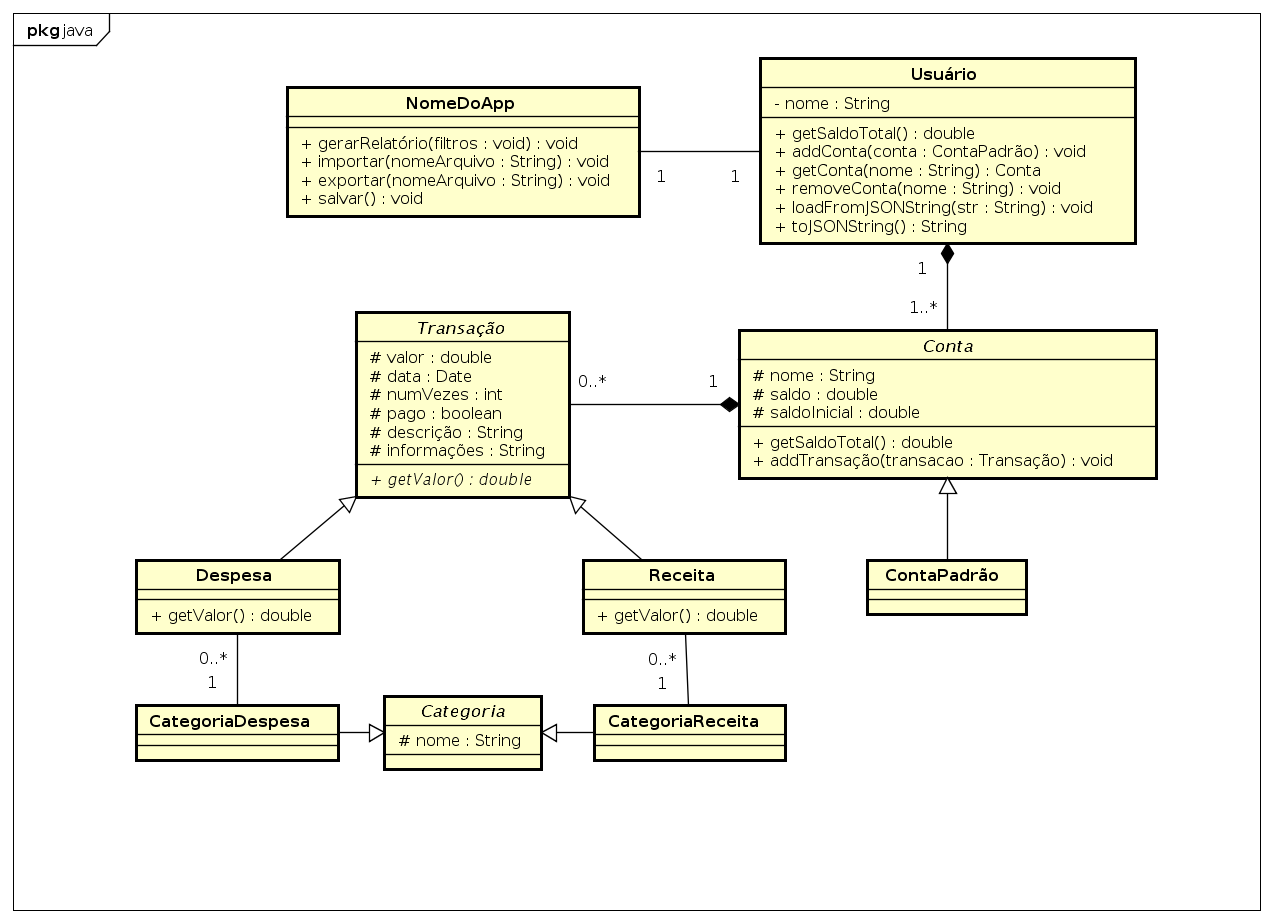
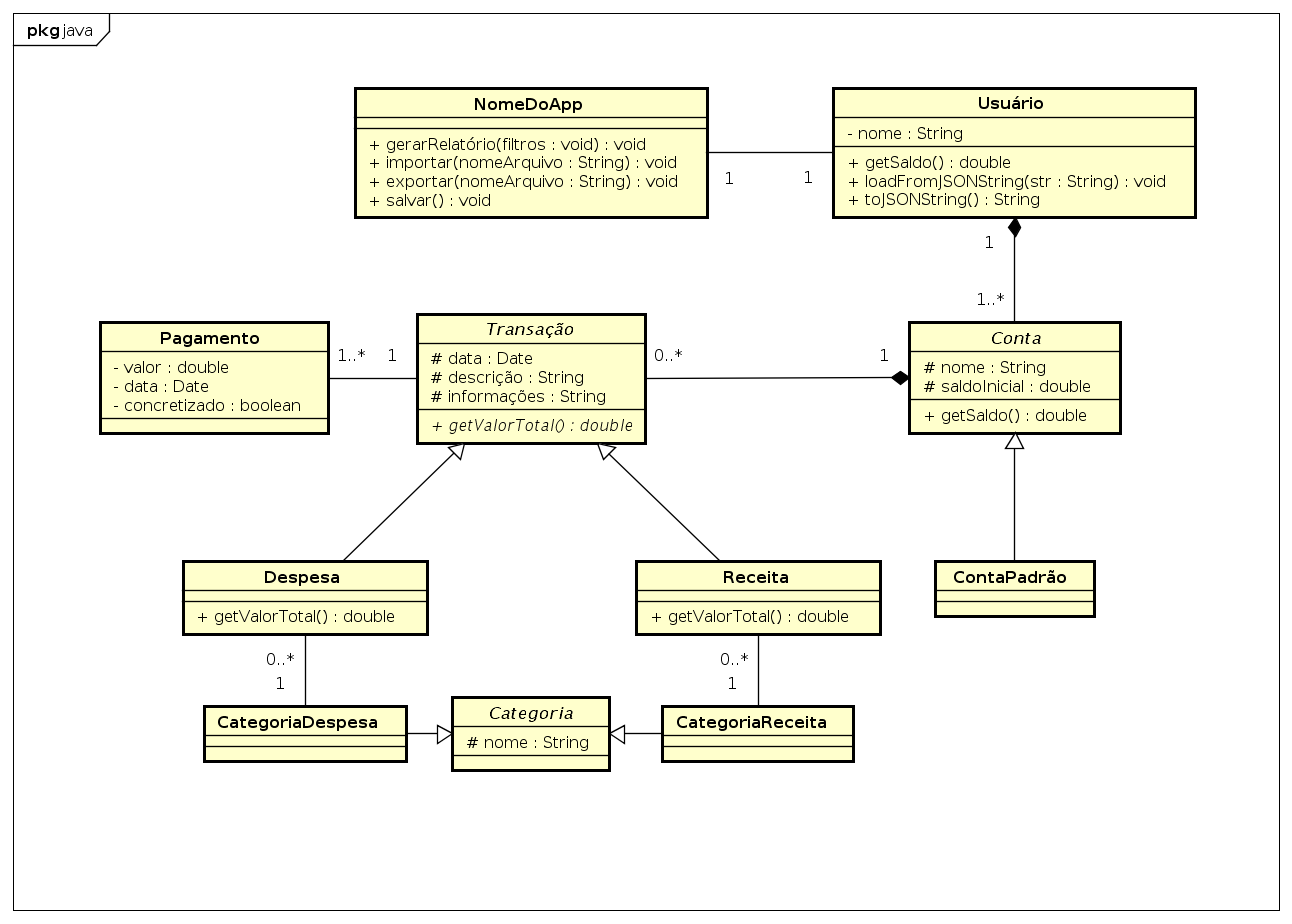
correções

diff --git a/desktop/src/financesapp/MainController.java b/desktop/src/financesapp/MainController.java
@@ -53,6 +53,9 @@ public class MainController implements Initializable {
     @FXML
     private ComboBox account;
     
+    @FXML
+    private Label balance;
+    
     private final LocalDate today = LocalDate.now();
     
     private final static ObservableList<String> accounts = FXCollections.observableArrayList();
@@ -88,7 +91,7 @@ public class MainController implements Initializable {
         
         date.setValue(today);
         
-        final NumberFormat currencyInstance = NumberFormat.getCurrencyInstance();
+        NumberFormat currencyInstance = NumberFormat.getCurrencyInstance();
         TextFormatter<Number> formatter = new TextFormatter<>(new FormatStringConverter<>(currencyInstance));
         formatter.valueProperty().bindBidirectional(new SimpleDoubleProperty(0));
         value.setTextFormatter(formatter);
@@ -114,7 +117,7 @@ public class MainController implements Initializable {
         carteira.addTransaction(transaction);
 
         transaction = new Expense(today, "Compra 1", "");
-        transaction.addPayments(10, today, true);
+        transaction.addPayments(10, today.minusMonths(1), true, 5);
         carteira.addTransaction(transaction);
         
         transaction = new Expense(today, "Compra 2", "");
@@ -126,15 +129,15 @@ public class MainController implements Initializable {
         carteira.addTransaction(transaction);
                 
         System.out.println(carteira.getName());
-        System.out.println(carteira.getBalanceTotal());            
+        System.out.println(carteira.getBalance());            
             
         DefaultAccount caixa = new DefaultAccount("Conta Caixa", 3750.76);
         this.user.addAccount(caixa);
         
         System.out.println(caixa.getName());
-        System.out.println(caixa.getBalanceTotal());
+        System.out.println(caixa.getBalance());
         
-        System.out.println(this.user.getBalanceTotal()); 
+        System.out.println(this.user.getBalance()); 
         
         System.out.println(this.user.toJSONString());
         
@@ -150,18 +153,21 @@ public class MainController implements Initializable {
             Account account = it.next();                  
         
             System.out.println(account.getName());
-            System.out.println(account.getBalanceTotal());   
+            System.out.println(account.getBalance());   
         }        
         
-        System.out.println(this.user.getBalanceTotal()); 
+        System.out.println(this.user.getBalance()); 
       
         System.out.println(this.user.toJSONString());  
     }
     
     public void load() {
         //Testes
-        //this.test1();
-        this.test2();
+        this.test1();
+        //this.test2();
+        
+        NumberFormat formatter = NumberFormat.getCurrencyInstance();        
+        this.balance.setText(formatter.format(this.user.getBalance()));
     }
 
     public void save() {

diff --git a/desktop/src/financesapp/Expense.java b/desktop/src/financesapp/Expense.java
@@ -32,8 +32,11 @@ public class Expense extends Transaction {
         Iterator<Payment> itp = this.payments.iterator();
         while (itp.hasNext()) {
             Payment payment = itp.next();
-            value += payment.getValue();
-        }        
+            LocalDate today = LocalDate.now();
+            if (payment.hasConcretized() && (payment.getDate().isBefore(today) || payment.getDate().isEqual(today))) {
+                value += payment.getValue();
+            }
+        }           
         
         return value * - 1;
     }  

diff --git a/desktop/src/financesapp/Recipe.java b/desktop/src/financesapp/Recipe.java
@@ -32,8 +32,11 @@ public class Recipe extends Transaction {
         Iterator<Payment> itp = this.payments.iterator();
         while (itp.hasNext()) {
             Payment payment = itp.next();
-            value += payment.getValue();
-        }        
+            LocalDate today = LocalDate.now();
+            if (payment.hasConcretized() && (payment.getDate().isBefore(today) || payment.getDate().isEqual(today))) {
+                value += payment.getValue();
+            }
+        }     
         
         return value;
     }

diff --git a/desktop/src/financesapp/User.java b/desktop/src/financesapp/User.java
@@ -161,14 +161,14 @@ public class User {
         return this.name;
     }
         
-    public double getBalanceTotal() {
+    public double getBalance() {
         double balance = 0;
        
         Iterator<Account> it = this.accounts.iterator();
         while (it.hasNext()) {
             Account account = it.next();                  
             
-            balance += account.getBalanceTotal();
+            balance += account.getBalance();
         }        
         
         return balance;

diff --git a/desktop/src/financesapp/Account.java b/desktop/src/financesapp/Account.java
@@ -43,7 +43,7 @@ abstract class Account {
         return this.balanceInitial;
     }
     
-    public double getBalanceTotal() {
+    public double getBalance() {
         double balance = this.balanceInitial;
         
         Iterator<Transaction> it = this.transactions.iterator();
